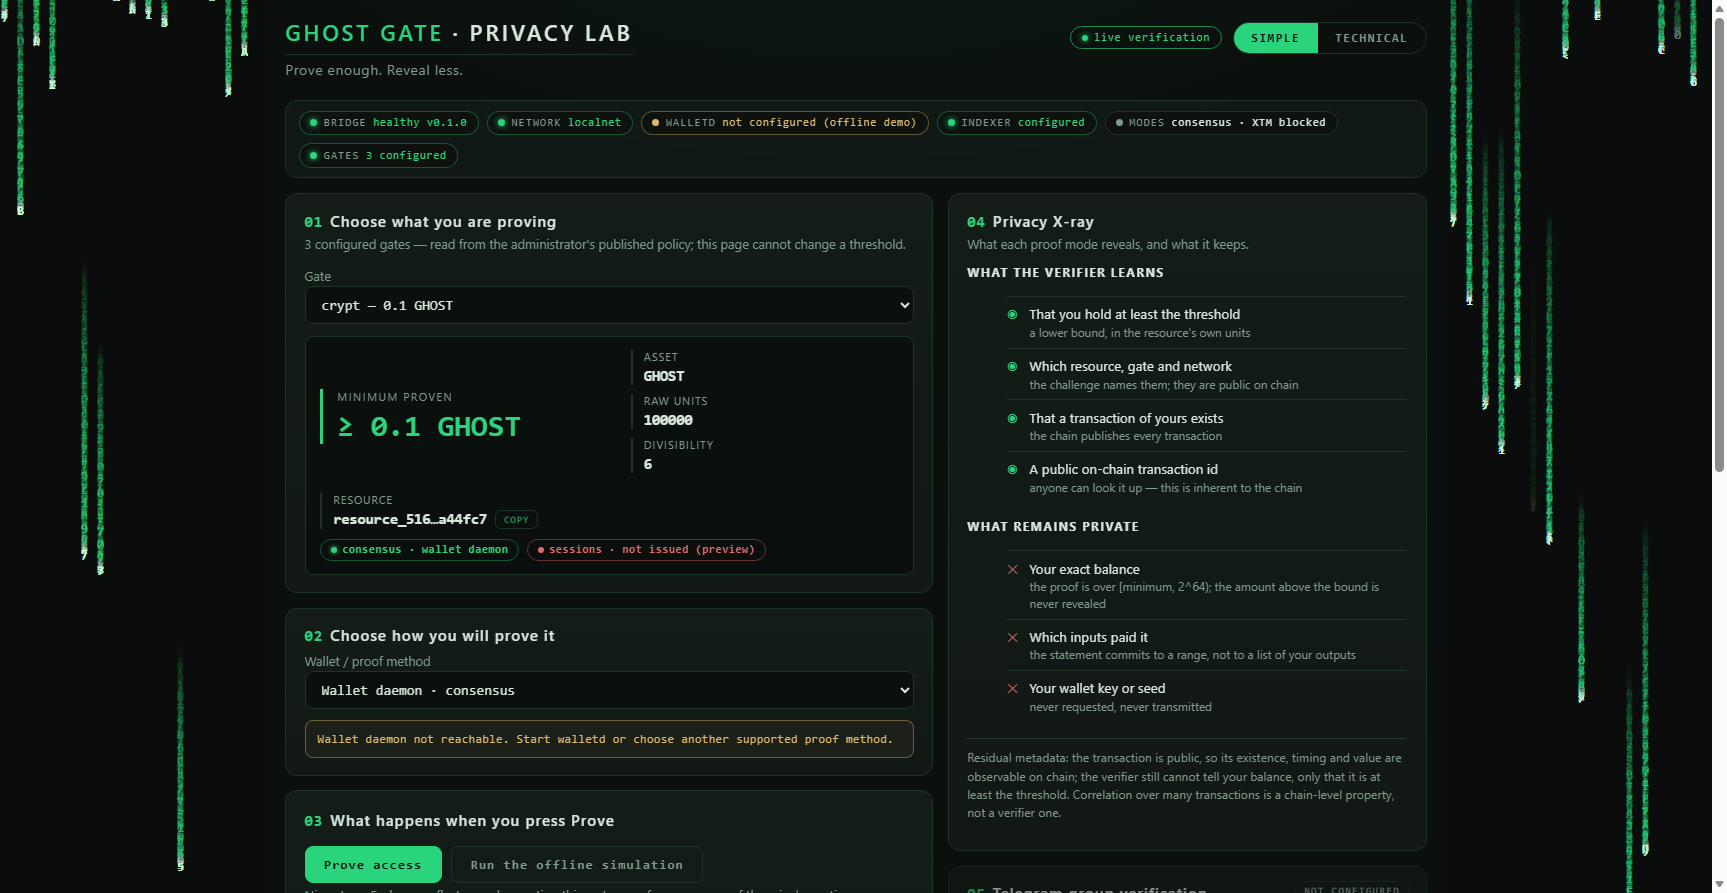
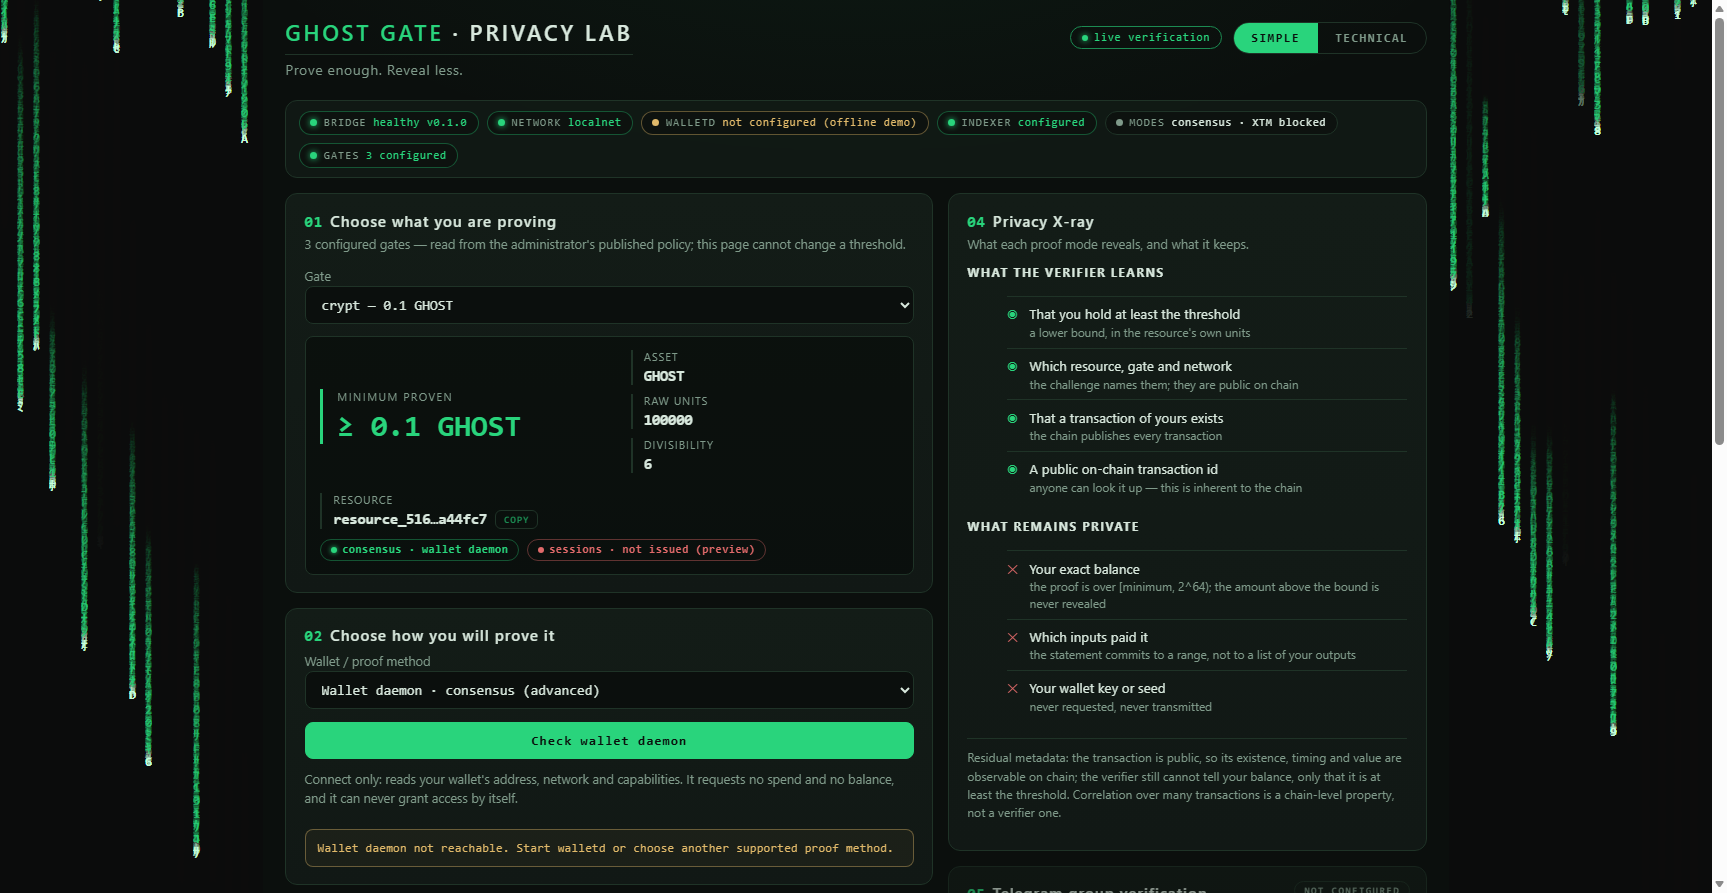
fix(lab): authorization now precedes every wallet read — physical Sapient 4100 fixed
The physical Sapient answered tari_getCapabilities with 4100 (not connected)
because connectWallet probed capabilities before tari_requestAccounts. Mock
providers accepted caps freely, which is why the failure only appeared in
physical testing.

connectWallet now calls tari_requestAccounts first and exactly once per click;
only after an authorized account request does it read capabilities, then
network, then the read-only ownership signature. describeProviderError gives
one distinct taxonomy (4001 declined / 4100 not connected / 4200 unsupported /
locked / generic) shared by every caller; 4100 never claims missing
capabilities and always says 'Connect or reconnect Sapient'. probe() no longer
reads a 4100 wallet as absent: it reports available-but-not-connected, and the
passive note under the selector points at Connect. claim.js names the same
state honestly.

Tests: 23/23 JS (4 new regression tests incl. the 4100 probe shape); CDP
connect harness 14/14 incl. a strict-order mock that reproduces the physical
failure mode. Bridge serves from disk — no rebuild needed. Physical prompt
awaits the operator's confirmation before LIVE WALLET VERIFIED.

diff --git a/web/lab/lab.js b/web/lab/lab.js
@@ -15,7 +15,7 @@
  */
 
 import { walletdProvider, sapientProvider, universeProvider, windowTariProvider } from "/js/ghost/provider.js";
-import { supportedProofModes, walletUsability, parseAmount, formatAmount, networkVerdict } from "/js/ghost/capabilities.js";
+import { supportedProofModes, walletUsability, parseAmount, formatAmount, networkVerdict, describeProviderError } from "/js/ghost/capabilities.js";
 
 const $ = (id) => document.getElementById(id);
 
@@ -234,6 +234,12 @@ async function selectMode(id) {
         });
         if (!probe.available) {
             usable = { usable: false, reason: probe.unavailableReason || "this wallet is not reachable from this page", modes: [] };
+        } else if (!probe.capabilities) {
+            // The extension is present but this site is not authorized yet (the real Sapient
+            // answers 4100 for capability reads before the account request). The wallet exists —
+            // say so, and point at the Connect button instead of declaring it unusable.
+            usable = { usable: false, reason: null, modes: [] };
+            usable.notConnectedReason = probe.unusableReason || "the wallet is not connected to this site yet";
         }
     } catch (e) {
         usable = { usable: false, reason: "provider did not answer", modes: [] };
@@ -249,6 +255,9 @@ async function selectMode(id) {
     } else if (usable.usable) {
         note.classList.add("ok");
         note.textContent = "This wallet can build the credential statement this gate accepts.";
+    } else if (usable.notConnectedReason) {
+        note.classList.add("warn");
+        note.textContent = "Sapient detected — press Connect wallet to authorize this site.";
     } else {
         note.classList.add("bad");
         note.textContent = `This wallet cannot prove this gate: ${usable.reason || "unsupported"}`;
@@ -308,24 +317,19 @@ async function connectWallet() {
             });
         }
         const provider = state.mode === "universe" ? universeProvider() : sapientProvider();
-        const probe = await provider.probe();
-        if (!probe.available) {
-            setRow("wd-status", "bad", probe.unavailableReason || "No Tari wallet answered on this page.");
-            return;
-        }
-        const caps = probe.capabilities || {};
 
-        // 1) Accounts — the wallet's own approval prompt. Read-only: it shares the public
-        //    address and grants no spend authority.
+        // 1) Accounts — FIRST, and the only wallet call this button makes that can prompt. The
+        //    real Sapient answers 4100 (not connected) for any capability read that arrives
+        //    before an authorized account request — authorization must precede every other
+        //    call. Read-only: it shares the public address and grants no spend authority. The
+        //    request fires exactly once per click; nothing here retries approval-triggering
+        //    calls, so a declined prompt is never re-asked by accident.
         let accounts;
         try {
             accounts = await provider.request("tari_requestAccounts");
         } catch (e) {
-            if (e && e.code === 4001) {
-                setRow("wd-status", "warn", "You declined the connection request. Nothing was shared.");
-            } else {
-                setRow("wd-status", "bad", `The wallet refused the account request: ${e && e.message ? e.message : e}`);
-            }
+            const d = describeProviderError(e);
+            setRow("wd-status", d.cls, d.text);
             return;
         }
         const address = Array.isArray(accounts) && accounts.length ? accounts[0] : null;
@@ -336,7 +340,18 @@ async function connectWallet() {
         $("wd-address").textContent = `${address.slice(0, 24)}…${address.slice(-10)} (${address.length} chars)`;
         setRow("wd-status", "ok", `${provider.label} connected.`);
 
-        // 2) Network — compare the wallet's own report against the gate's Ootle byte.
+        // 2) Capabilities — only after an authorized connection, or the real wallet refuses
+        //    them with 4100. A refusal here is a warning, never a hard stop: the connection
+        //    itself already succeeded.
+        let caps = null;
+        try {
+            caps = await provider.request("tari_getCapabilities");
+        } catch (e) {
+            const d = describeProviderError(e);
+            setRow("wd-network", d.cls, d.text);
+        }
+
+        // 3) Network — compare the wallet's own report against the gate's Ootle byte.
         let netName = null;
         try { netName = await provider.request("tari_getNetwork"); } catch { /* optional */ }
         const gate = state.gate;
@@ -347,20 +362,21 @@ async function connectWallet() {
             $("wd-network").textContent = netName ? `${netName} (no gate selected, so no verdict)` : "the wallet did not report a network";
         }
 
-        // 3) Capabilities — the flags that decide which proof modes this account can offer.
-        const capNames = Object.entries(caps).filter(([, v]) => v === true).map(([k]) => k);
+        // 4) Capabilities — the flags that decide which proof modes this account can offer.
+        const capNames = caps ? Object.entries(caps).filter(([, v]) => v === true).map(([k]) => k) : [];
         $("wd-caps-row").hidden = false;
         $("wd-caps").textContent = capNames.length
             ? capNames.join(", ")
-            : "the wallet reported no capabilities this gate can use";
-        if (!probe.modes.length) {
-            setRow("wd-status", "warn", `Connected, but this account supports none of Ghost Gate's proof modes.`);
+            : "the wallet did not report capabilities, so no proof mode can be assessed yet";
+        const credOk = caps && caps.privateSpend === true && caps.minimumValuePromise === true && caps.ownershipProof === true;
+        if (!credOk) {
+            setRow("wd-status", "warn", "Connected, but this account cannot offer the credential proof this gate's mode needs.");
         }
 
-        // 4) Wallet-ownership signature — only when the wallet offers it, and only over a nonce
+        // 5) Wallet-ownership signature — only when the wallet offers it, and only over a nonce
         //    this page generated. It proves the person holds the wallet, not that the wallet
         //    holds any asset, and it is never an eligibility proof.
-        if (caps.walletOwnershipProof === true) {
+        if (caps && caps.walletOwnershipProof === true) {
             const nonce = Array.from(crypto.getRandomValues(new Uint8Array(16)),
                 (b) => b.toString(16).padStart(2, "0")).join("");
             try {

diff --git a/web/js/ghost/test.js b/web/js/ghost/test.js
@@ -12,7 +12,7 @@
 
 import test from "node:test";
 import assert from "node:assert/strict";
-import { PROOF_MODES, supportedProofModes, walletUsability, networkMatches, parseAmount, formatAmount } from "./capabilities.js";
+import { PROOF_MODES, supportedProofModes, walletUsability, networkMatches, parseAmount, formatAmount, networkVerdict, describeProviderError } from "./capabilities.js";
 import { sapientProvider, universeProvider, walletdProvider } from "./provider.js";
 
 /** Installs a minimal fake window with a provider object, returns an uninstaller. */
@@ -74,6 +74,80 @@ test("the network check compares Ootle bytes, tolerating name case", () => {
   // The Universe trap: tari_getNetwork returns the Ootle network, never the L1 one. A gate bound
   // to the Ootle byte must not be "verified" against an L1 network name.
   assert.equal(networkMatches("esmeralda", names, 0x10).ok, false);
+});
+
+test("networkVerdict names the mismatch and keeps the gate as the blocker", () => {
+  const v = networkVerdict("esmeralda", 0x10);
+  assert.equal(v.ok, false);
+  assert.equal(v.byte, 0x26);
+  assert.match(v.verdict, /mismatch/i);
+  assert.match(v.verdict, /blocked by the gate/);
+  assert.match(networkVerdict("esmeralda", 0x26).verdict, /the gate's own network/i);
+  assert.match(networkVerdict(null, 0x10).verdict, /did not report a network/i);
+  assert.match(networkVerdict("moonnet", 0x10).verdict, /not a cohort this gate can bind to/i);
+});
+
+test("probe with the real Sapient's 4100: the wallet is available, just not connected", () => {
+  // The physical Sapient refuses capability reads before an authorized account request. The
+  // mock ones answered freely, which is exactly why 4100 only showed up in physical testing.
+  const strict = {
+    isTariWallet: true,
+    request(args) {
+      if (args.method === "tari_getCapabilities") {
+        return Promise.reject(Object.assign(new Error("not connected"), { code: 4100 }));
+      }
+      return Promise.resolve([]);
+    },
+  };
+  const undo = withWindow(strict);
+  try {
+    const probe = sapientProvider().probe().then((p) => {
+      assert.equal(p.available, true, "the extension is present — it must not read as 'no wallet'");
+      assert.equal(p.capabilities, null);
+      assert.equal(p.modes.length, 0);
+      assert.match(p.unusableReason, /not connected/i);
+      assert.match(p.unusableReason, /Connect wallet/i);
+    });
+    return probe;
+  } finally {
+    undo();
+  }
+});
+
+test("no provider on the page: unavailable with the honest install reason", () => {
+  const undo = withWindow(null);
+  try {
+    return sapientProvider().probe().then((p) => {
+      assert.equal(p.available, false);
+      assert.match(p.unavailableReason, /No Tari wallet answered/i);
+    });
+  } finally {
+    undo();
+  }
+});
+
+test("describeProviderError names 4001, 4100, 4200, locked and generic distinctly", () => {
+  const rejected = describeProviderError({ code: 4001, message: "user rejected" });
+  assert.equal(rejected.cls, "warn");
+  assert.match(rejected.text, /declined/i);
+
+  const unauthorized = describeProviderError({ code: 4100, message: "not connected" });
+  assert.equal(unauthorized.cls, "bad");
+  assert.match(unauthorized.text, /not connected/i);
+  assert.match(unauthorized.text, /Connect or reconnect/i);
+  assert.doesNotMatch(unauthorized.text, /capabilities/i, "4100 must never claim missing capabilities");
+
+  const unsupported = describeProviderError({ code: 4200, message: "unsupported" });
+  assert.equal(unsupported.cls, "bad");
+  assert.match(unsupported.text, /does not support/i);
+
+  const locked = describeProviderError({ message: "wallet is locked" });
+  assert.equal(locked.cls, "warn");
+  assert.match(locked.text, /locked/i);
+
+  const generic = describeProviderError({ message: "something odd" });
+  assert.equal(generic.cls, "bad");
+  assert.match(generic.text, /something odd/);
 });
 
 test("amounts parse as strings or bigints and never as floats", () => {

diff --git a/web/js/ghost/capabilities.js b/web/js/ghost/capabilities.js
@@ -183,6 +183,35 @@ export function networkVerdict(reportedName, expectedByte) {
 }
 
 /**
+ * One place that knows the provider error taxonomy, so every caller reports the same distinct
+ * states instead of a generic failure. Codes follow the provider convention carried in
+ * `tari-dapp.d.ts`: 4001 rejected · 4100 not connected · 4200 unsupported · -32603 internal.
+ * 4100 is an actionable authorization state — never evidence that the wallet lacks capabilities.
+ *
+ * @param {{ code?: number, message?: string }|string} e
+ * @returns {{ cls: "warn"|"bad", text: string }}
+ */
+export function describeProviderError(e) {
+  const code = e && typeof e === "object" ? e.code : undefined;
+  const message = e && typeof e === "object" ? String(e.message || e) : String(e || "unknown error");
+  if (code === 4001) {
+    return { cls: "warn", text: "You declined the request in your wallet. Nothing was shared." };
+  }
+  if (code === 4100) {
+    return { cls: "bad", text:
+      "This site is not connected to your wallet yet. Connect or reconnect Sapient — unlock the " +
+      "wallet, approve this site if it asks — then press Connect wallet again." };
+  }
+  if (code === 4200) {
+    return { cls: "bad", text: "This wallet does not support that call." };
+  }
+  if (/lock/i.test(message)) {
+    return { cls: "warn", text: "The wallet appears to be locked. Unlock Sapient, then press Connect wallet again." };
+  }
+  return { cls: "bad", text: `The wallet refused the request: ${message}` };
+}
+
+/**
  * Amounts are strings or bigints, never JS numbers (they exceed MAX_SAFE_INTEGER). Returns a BigInt
  * or null; null means "not a usable amount", which the caller must treat as an error rather than 0.
  *

diff --git a/web/js/ghost/provider.js b/web/js/ghost/provider.js
@@ -86,6 +86,21 @@ export function windowTariProvider(id, label, discover) {
       try {
         caps = await found.provider.request({ method: "tari_getCapabilities" });
       } catch (e) {
+        if (e && e.code === 4100) {
+          // The extension is present but this site is not authorized yet: the real Sapient
+          // refuses capability reads before tari_requestAccounts (the mock ones answered
+          // freely, which is exactly why 4100 only showed up in physical testing). The wallet
+          // is AVAILABLE — it just needs the user's connect click. Never treat this as a
+          // missing wallet or as a missing capability.
+          return {
+            id, label,
+            available: true,
+            unavailableReason: null,
+            capabilities: null,
+            modes: [],
+            unusableReason: "the wallet is not connected to this site yet — press Connect wallet to authorize it",
+          };
+        }
         return {
           id, label,
           available: false,

diff --git a/web/telegram/claim.js b/web/telegram/claim.js
@@ -81,6 +81,7 @@ async function main() {
   }
   const candidates = [sapientProvider(), universeProvider()];
   let provider = null;
+  let detectedButDisconnected = false;
   for (const p of candidates) {
     try {
       const probe = await p.probe();
@@ -88,7 +89,17 @@ async function main() {
         provider = p;
         break;
       }
+      // The extension is present but this site is not authorized yet (4100): a real wallet is
+      // sitting right there, so "no wallet answered" would be a lie. Name the actual state.
+      if (probe.available && !probe.capabilities) detectedButDisconnected = true;
     } catch { /* try the next */ }
+  }
+  if (!provider && detectedButDisconnected) {
+    return fail(
+      "A Tari wallet (Sapient or Universe) is installed but this page is not connected to it " +
+      "yet. Open the Privacy Lab, press Connect wallet to authorize this site, then retry the " +
+      "join link.",
+    );
   }
   if (!provider) {
     return fail(

diff --git a/docs/MASTER_ACCEPTANCE_STATUS.md b/docs/MASTER_ACCEPTANCE_STATUS.md
@@ -350,3 +350,42 @@ select a gate, choose "Sapient — Ootle L2 · credential", press **Connect wall
 the extension's prompt. Expect: address shown, mismatch verdict (Esmeralda vs localnet —
 correct for these demo gates), capability list, and the optional read-only signature. Not
 labelled LIVE WALLET VERIFIED until the operator confirms the real prompt.
+
+---
+
+## 13. Session log — 2026-10-20 (physical 4100 fixed: authorization now precedes every read)
+
+**The physical evidence:** the operator's real Sapient answered `tari_getCapabilities` with
+**4100 (not connected)** because the Connect handler probed capabilities *before* asking for
+accounts. The mock providers accepted caps freely — which is exactly why the failure only
+showed in physical testing.
+
+**Fix — the actual authorization sequence, not the error text:**
+1. `connectWallet()` now calls `tari_requestAccounts` FIRST and only once per click (no
+   automatic retries of approval-triggering calls). Only after an authorized account request
+   does it read `tari_getCapabilities`, then `tari_getNetwork`, then the verdict and the
+   read-only wallet-ownership signature.
+2. `describeProviderError()` (capabilities.js) gives every caller one distinct taxonomy:
+   4001 declined (warn) · 4100 not connected (bad, actionable: "Connect or reconnect Sapient…
+   then press Connect wallet again") · 4200 unsupported · locked-wallet wording · generic
+   message passthrough. 4100 never claims missing capabilities.
+3. `probe()` no longer treats 4100 as "no wallet": the extension is reported `available` with
+   `capabilities: null` and a pointer at the Connect button. The passive note under the
+   selector reads "Sapient detected — press Connect wallet to authorize this site."
+4. `claim.js` says the honest thing for a detected-but-not-connected wallet instead of
+   "No Tari browser wallet answered".
+
+**Verified (AUTOMATED TESTS ONLY):**
+- JS suite now **23/23** (4 new regression tests: 4100 probe shape; the error taxonomy; the
+  mismatch verdict wording; the no-provider state).
+- `scripts/lab_connect_check.sh` now **14/14**, including a NEW strict-order mock that
+  reproduces the physical failure mode (caps → 4100 before accounts) and proves the fix in a
+  real headless Edge: accounts-first connects, address shown, mismatch verdict shown, passive
+  state points at Connect.
+- Bridge serves from disk; no rebuild or restart was needed.
+
+**Operator's physical milestone (awaiting your result):** open http://127.0.0.1:7799/lab,
+select a gate, choose "Sapient — Ootle L2 · credential", press **Connect wallet**, approve the
+extension's prompt. Expect the real address, the Esmeralda/Localnet mismatch verdict, the
+capability list, and the optional possession-only signature — with no spend request. Not
+LIVE WALLET VERIFIED until you confirm it.
